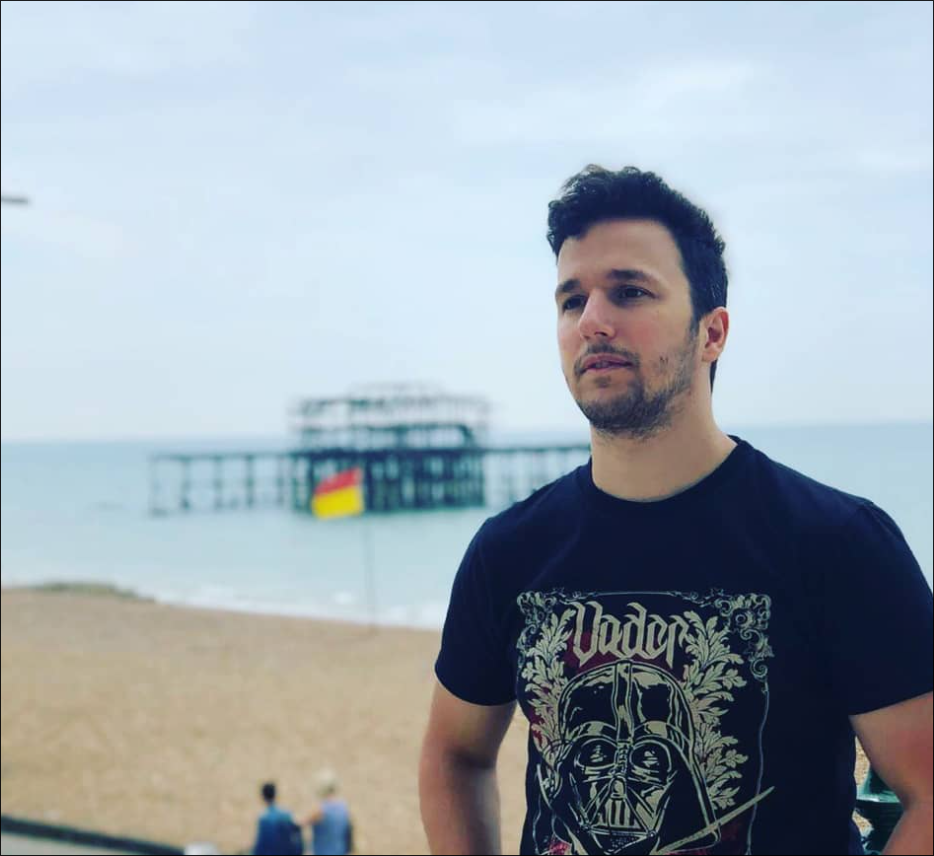
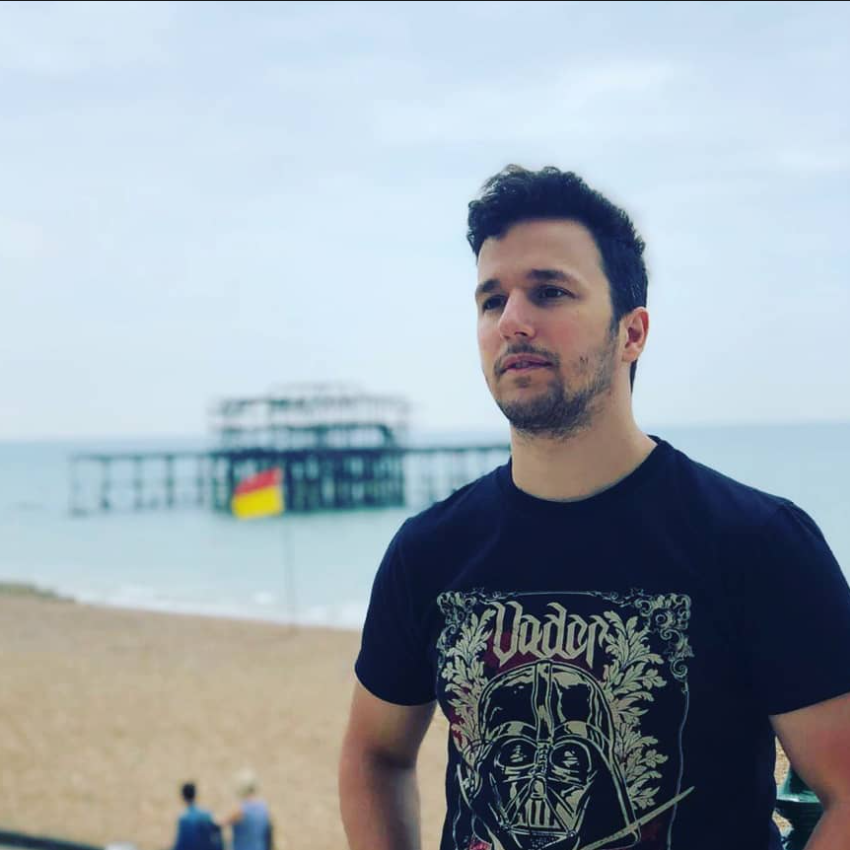
added profile an style pjhoto

diff --git a/src/components/atoms/Final.jsx b/src/components/atoms/Final.jsx
@@ -6,7 +6,9 @@ export default function Final() {
             <div className="w-screen h-screen bg-transparent text-white">
                 <div className="grid grid-cols-2 p-14">
                     <div className="col-span-1">
-                        <img className="rounded-full" src="https://placehold.co/600x600"></img>
+                        <div className="rounded-full w-full max-w-[600px] aspect-square overflow-hidden">
+                            <img className="w-[105%]" src="./img/profile-photo.png"></img>
+                        </div>
                     </div>
                     <div className="col-span-1">
                         <ul>
